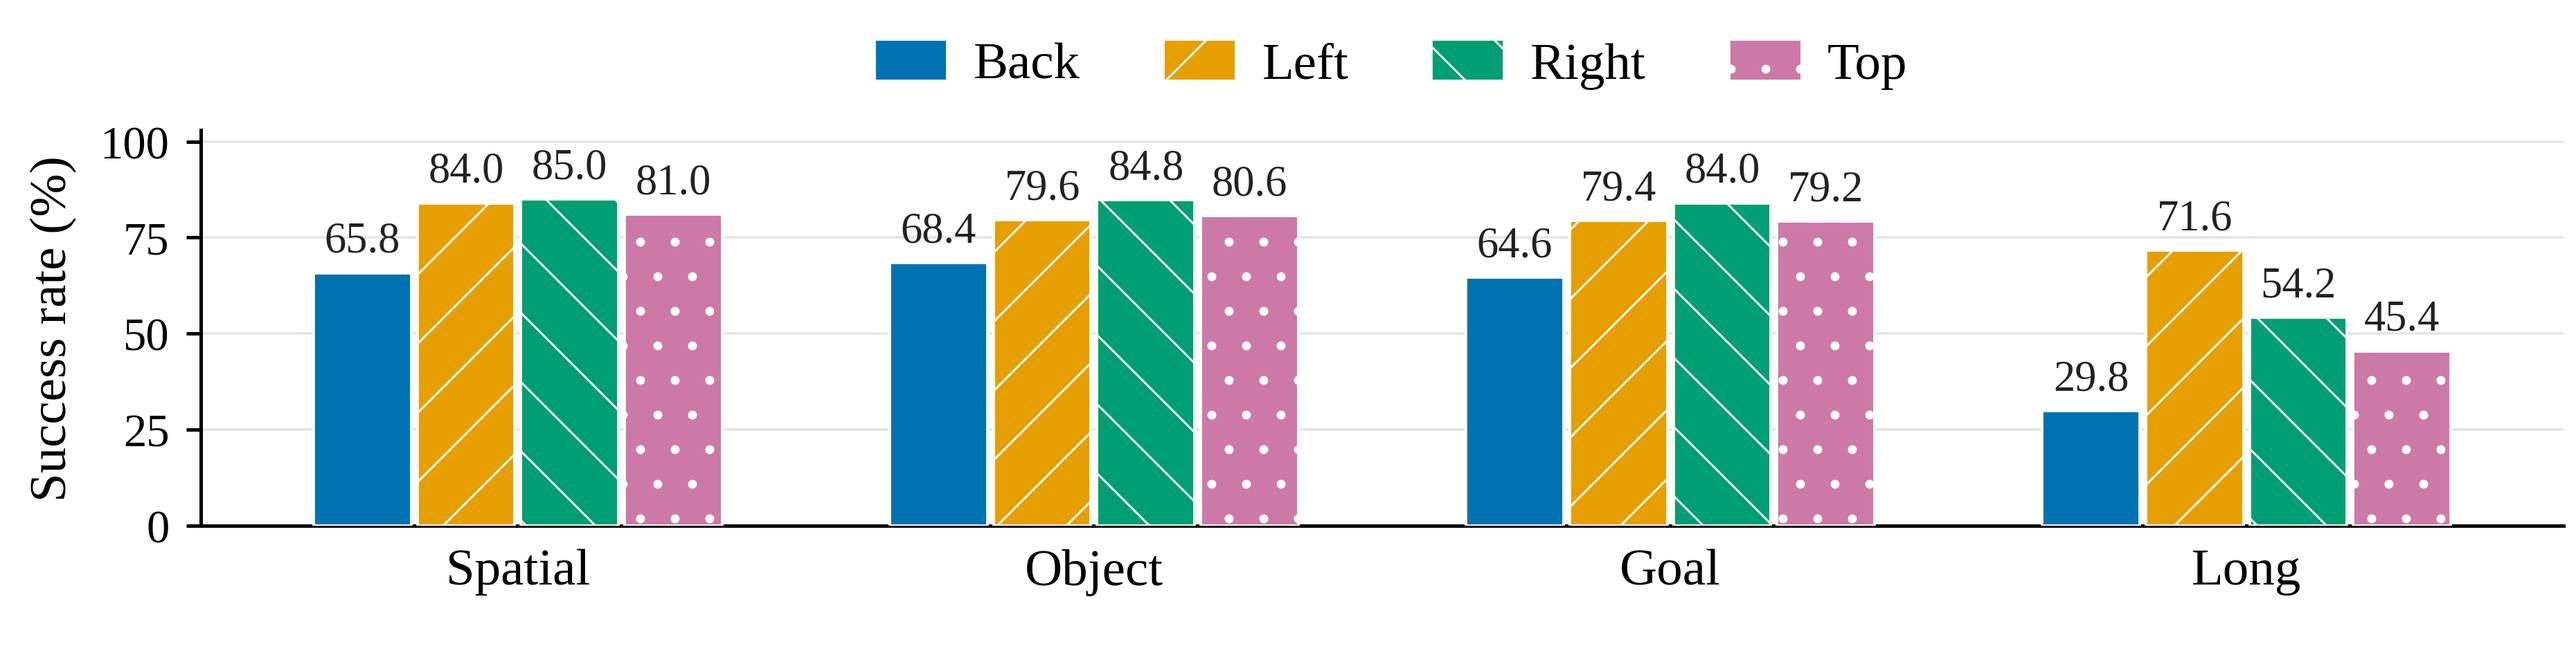
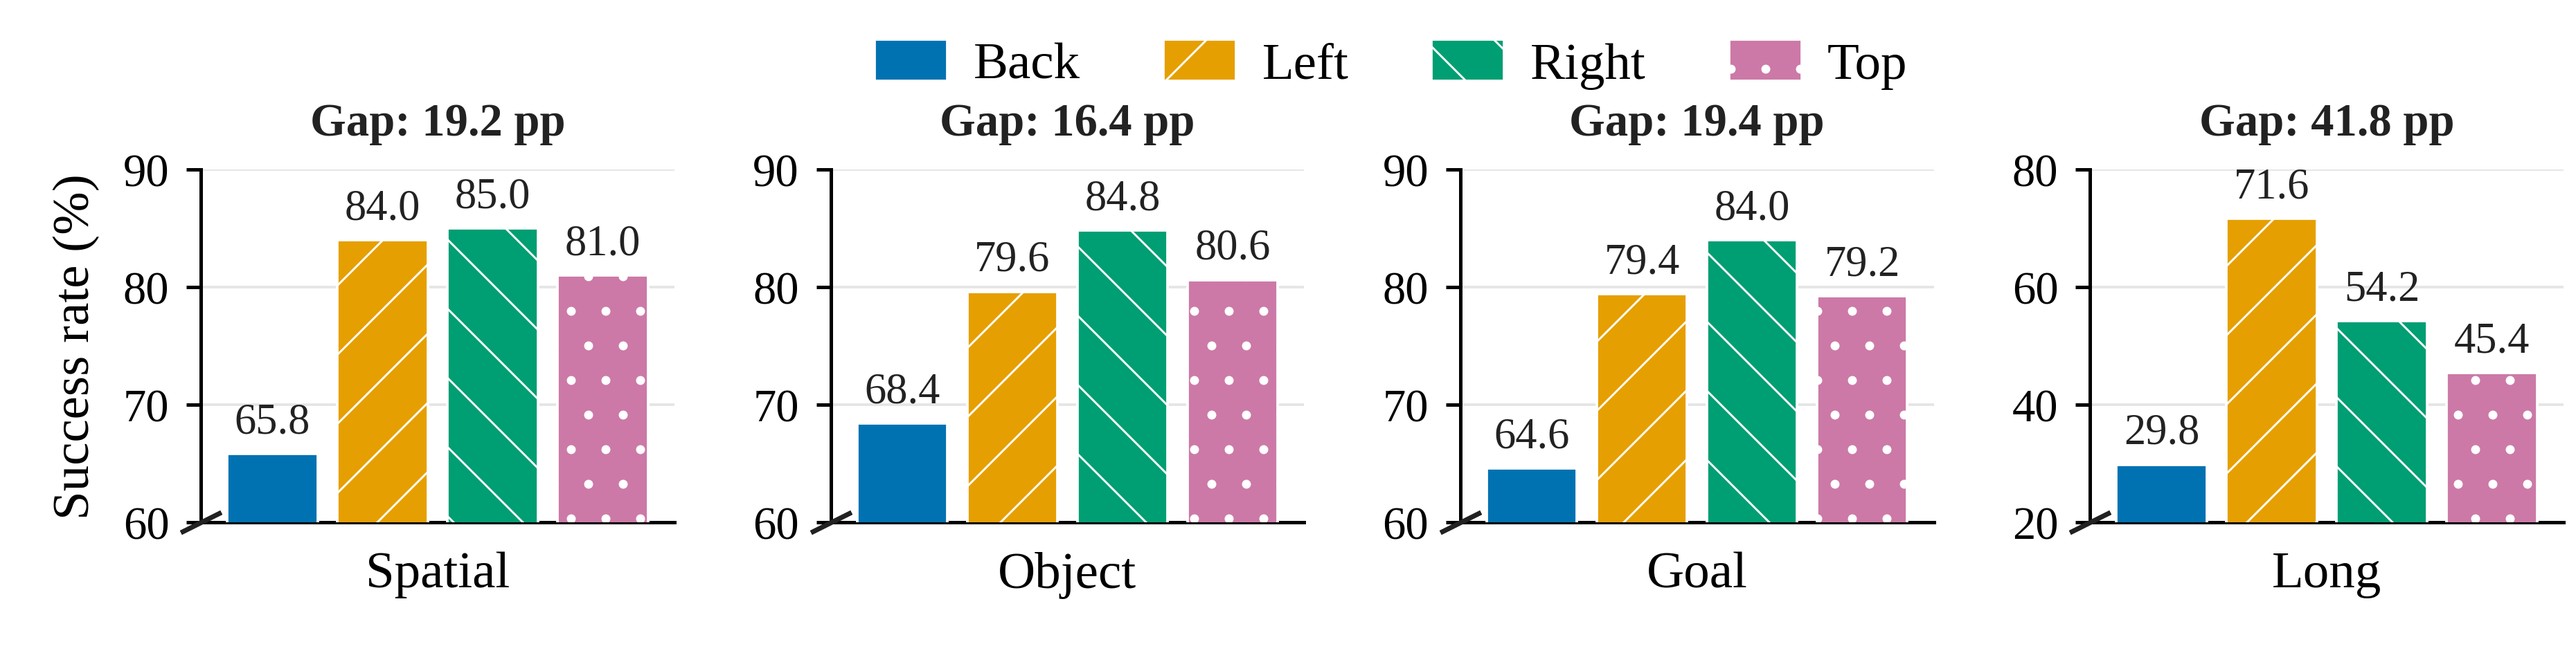
Magnify viewpoint performance differences in separate suite panels

diff --git a/paper/Figures/gen_fig_viewpoint_performance.py b/paper/Figures/gen_fig_viewpoint_performance.py
@@ -8,6 +8,7 @@ Run with `uv run --script paper/Figures/gen_fig_viewpoint_performance.py`.
 Alternatively, run with the existing openpi Conda environment's Python.
 The adjacent JSON records the plotted counts and their archive sources.
 Exports retain the placeholder's 15.75 x 4 cm size, without tight cropping.
+Each suite has a magnified panel with an explicitly marked, nonzero baseline.
 """
 
 import json
@@ -42,39 +43,65 @@ def main():
             "hatch.linewidth": 0.35,
         }
     )
-    fig, ax = plt.subplots(figsize=(data["width_cm"] / 2.54, data["height_cm"] / 2.54))
-    fig.subplots_adjust(left=0.078, right=0.995, bottom=0.195, top=0.80)
+    fig, axes = plt.subplots(1, 4, figsize=(data["width_cm"] / 2.54, data["height_cm"] / 2.54))
+    fig.subplots_adjust(left=0.078, right=0.995, bottom=0.20, top=0.74, wspace=0.33)
 
     colors = ["#0072B2", "#E69F00", "#009E73", "#CC79A7"]
     hatches = ["", "//", "\\\\", ".."]
-    positions = np.arange(len(data["suite_order"]))
-    bar_width = 0.18
-    for index, view in enumerate(data["views"]):
-        offset = (index - (len(data["views"]) - 1) / 2) * bar_width
-        bars = ax.bar(
-            positions + offset,
-            rates[index],
-            width=bar_width * 0.94,
-            color=colors[index],
-            hatch=hatches[index],
-            edgecolor="#FFFFFF",
-            linewidth=0.45,
-            label=view["label"],
-            zorder=3,
-        )
-        ax.bar_label(bars, fmt="%.1f", padding=2, fontsize=7.5, color="#222222")
+    y_ranges = [(60, 90), (60, 90), (60, 90), (20, 80)]
+    for suite_index, ax in enumerate(axes):
+        suite_rates = rates[:, suite_index]
+        for view_index, view in enumerate(data["views"]):
+            bars = ax.bar(
+                view_index,
+                suite_rates[view_index],
+                width=0.82,
+                color=colors[view_index],
+                hatch=hatches[view_index],
+                edgecolor="#FFFFFF",
+                linewidth=0.45,
+                label=view["label"],
+                zorder=3,
+            )
+            ax.bar_label(bars, fmt="%.1f", padding=2, fontsize=7.5, color="#222222")
 
-    ax.set_ylabel("Success rate (%)", labelpad=4)
-    ax.set_xticks(positions, data["suite_labels"])
-    ax.set_ylim(0, 103)
-    ax.set_yticks([0, 25, 50, 75, 100])
-    ax.set_xlim(-0.55, len(positions) - 0.45)
-    ax.tick_params(axis="x", length=0, pad=4)
-    ax.tick_params(axis="y", length=2.5, width=0.6, pad=3)
-    ax.set_axisbelow(True)
-    ax.grid(axis="y", color="#E5E5E5", linewidth=0.45)
+        low, high = y_ranges[suite_index]
+        ax.set_ylim(low, high)
+        ax.set_yticks(np.linspace(low, high, 4))
+        ax.set_xlim(-0.65, 3.65)
+        ax.set_xticks([])
+        ax.set_xlabel(data["suite_labels"][suite_index], labelpad=5)
+        ax.tick_params(axis="y", length=2.5, width=0.6, pad=3)
+        ax.set_axisbelow(True)
+        ax.grid(axis="y", color="#E5E5E5", linewidth=0.45)
+        ax.text(
+            0.5,
+            1.07,
+            f"Gap: {np.ptp(suite_rates):.1f} pp",
+            transform=ax.transAxes,
+            ha="center",
+            va="bottom",
+            fontsize=8,
+            fontweight="bold",
+            color="#222222",
+        )
+        # The break mark makes the cropped baseline explicit in every panel.
+        ax.plot(
+            [0, 0],
+            [0, 0],
+            transform=ax.transAxes,
+            marker=[(-1, -0.5), (1, 0.5)],
+            markersize=7,
+            markeredgewidth=0.8,
+            color="#222222",
+            linestyle="none",
+            clip_on=False,
+            zorder=5,
+        )
+
+    axes[0].set_ylabel("Success rate (%)", labelpad=4)
     fig.legend(
-        *ax.get_legend_handles_labels(),
+        *axes[0].get_legend_handles_labels(),
         loc="upper center",
         bbox_to_anchor=(0.54, 1.01),
         ncol=4,

diff --git a/paper/ELSP_Latex_Template.tex b/paper/ELSP_Latex_Template.tex
@@ -126,9 +126,11 @@
     \begin{figure}[H]
     \centering
     \includegraphics[width=0.9\linewidth]{Figures/Figure1_viewpoint_performance.pdf}
-    \caption{Single-view SFT performance across camera viewpoints on LIBERO.
-    Each policy is trained and evaluated using only the indicated view,
-    with 500 evaluation episodes per suite.}
+    \caption{Single-view SFT performance across camera viewpoints on LIBERO
+    (500 episodes per suite). Panels magnify the observed success-rate
+    ranges using the indicated vertical scales. Gap denotes the difference
+    between the highest and lowest rates within each suite, in percentage
+    points (pp).}
     \label{fig:motivation}
     \end{figure}
 }
